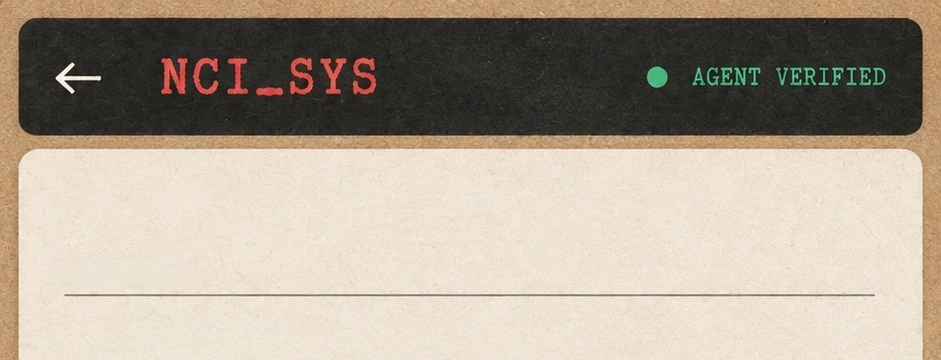
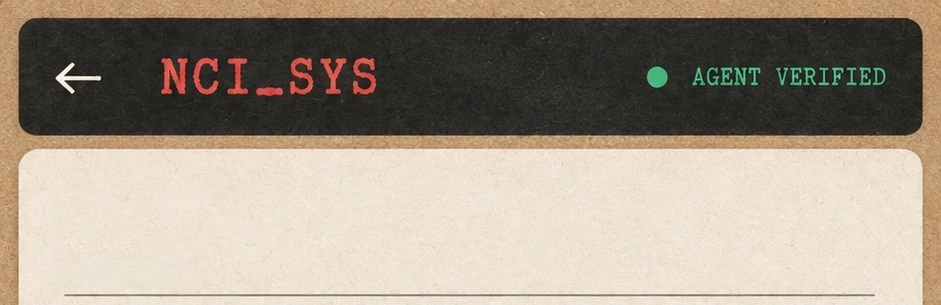
Trim header blank space and reposition sender name
Cropped the header asset shorter (360px -> 305px) to remove most of
the dead space between the divider rule and where it's placed, so
message content starts right after the rule instead of floating well
below it. Moved the sender name up to sit centered between the black
bar and the rule, per iterative feedback.

diff --git a/index.html b/index.html
@@ -755,16 +755,16 @@ body{font-family:'Share Tech Mono',monospace;background:#0a0a0a;color:#c8c8c0;mi
 }
 #s5 .msg-detail-head{
   display:block;flex-shrink:0;
-  aspect-ratio:941/360;position:relative;
+  aspect-ratio:941/305;position:relative;
   background:url('assets/msg_header_generic.webp') top center no-repeat;background-size:100% 100%;
   border:none;margin:0;padding:0;
 }
 .s5-back-overlay{
-  position:absolute;top:0;left:0;width:22%;height:38%;
+  position:absolute;top:0;left:0;width:22%;height:45%;
   background:transparent;border:none;cursor:pointer;z-index:20;padding:0;
 }
 #s5 .msg-detail-sender{
-  display:block;position:absolute;left:7%;top:59%;
+  display:block;position:absolute;left:7%;top:64%;
   font-family:'Noto Sans KR',sans-serif;font-weight:900;font-size:20px;color:#2a1c10;
   letter-spacing:0.3px;
 }
@@ -890,7 +890,7 @@ body{font-family:'Share Tech Mono',monospace;background:#0a0a0a;color:#c8c8c0;mi
 </style>
 </head>
 <body>
-<div style="position:fixed;top:0;left:0;right:0;z-index:99999;background:#111;color:#0f0;font-family:monospace;font-size:11px;text-align:center;padding:3px 0;height:14px;line-height:14px;">BUILD v385</div>
+<div style="position:fixed;top:0;left:0;right:0;z-index:99999;background:#111;color:#0f0;font-family:monospace;font-size:11px;text-align:center;padding:3px 0;height:14px;line-height:14px;">BUILD v386</div>
 <div class="scanline"></div>
 <div class="blackout" id="blackout"></div>
 <div class="scan-auth" id="scanAuth"></div>
